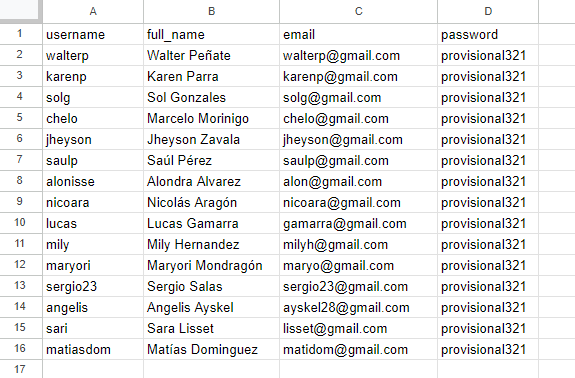
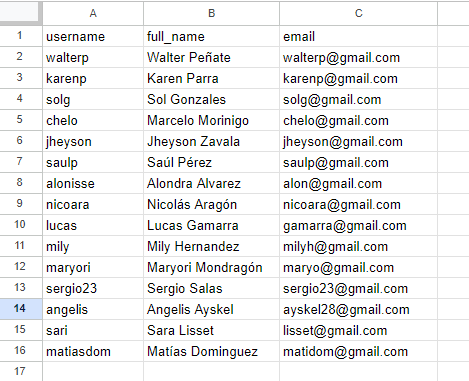
feat: add users created in block notification

diff --git a/business/usuarios/block.php b/business/usuarios/block.php
@@ -37,8 +37,10 @@ verifyRoles(['admin']);
             <form class="custom-form" action="./actions/create_users.php" method="POST" enctype="multipart/form-data">
                 <div class="data-section">
                     <p>
-                        Para crear usuarios en bloque, necesitas completar un archivo CSV con las columnas: <strong>username, full_name, email y password.</strong>
-                        Puedes crear las tablas en cualquier Excel o SpreadSheet y luego descargar como CSV.
+                        Para crear usuarios en bloque, necesitas completar un archivo CSV con las columnas: <strong>username, full_name, y email.</strong>
+                        La contraseña se establecerá de manera aleatoria automaticamente.
+                    </p>
+                    <p>Puedes crear las tablas en cualquier Excel o SpreadSheet y luego descargar como CSV.
                         <a class="change-password" href="<?php echo BASE_URL ?>/assets/img/csv_example.png" target="_blank">Ver ejemplo</a>
                     </p>
 
@@ -52,12 +54,12 @@ verifyRoles(['admin']);
 
                 <div class="manage-section">
                     <div class="input-wrapper select-input">
-                    <p>
-                        Por razones de seguridad, todos los usuarios creados en bloque se crean con rol <strong>Analista de Empresa</strong>.
-                    </p>
+                        <p>
+                            Por razones de seguridad, todos los usuarios creados en bloque se crean con rol <strong>Analista de Empresa</strong>.
+                        </p>
 
-                    <input id="submit-btn" class="btn btn-primary" type="submit" value="Crear en bloque">
-                </div>
+                        <input id="submit-btn" class="btn btn-primary" type="submit" value="Crear en bloque">
+                    </div>
             </form>
             <?php unset($_SESSION['form_data']); ?>
         </section>

diff --git a/admin/usuarios/block.php b/admin/usuarios/block.php
@@ -48,8 +48,10 @@ $stmt->close();
             <form class="custom-form" action="./actions/create_users.php" method="POST" enctype="multipart/form-data">
                 <div class="data-section">
                     <p>
-                        Para crear usuarios en bloque, necesitas completar un archivo CSV con las columnas: <strong>username, full_name, email y password.</strong>
-                        Puedes crear las tablas en cualquier Excel o SpreadSheet y luego descargar como CSV.
+                        Para crear usuarios en bloque, necesitas completar un archivo CSV con las columnas: <strong>username, full_name, y email.</strong>
+                        La contraseña se establecerá de manera aleatoria automaticamente.
+                    </p>
+                    <p>Puedes crear las tablas en cualquier Excel o SpreadSheet y luego descargar como CSV.
                         <a class="change-password" href="<?php echo BASE_URL ?>/assets/img/csv_example.png" target="_blank">Ver ejemplo</a>
                     </p>
 

diff --git a/admin/usuarios/actions/create_users.php b/admin/usuarios/actions/create_users.php
@@ -3,6 +3,8 @@
 require '../../../config/config.php';
 require '../../../helpers/forms.php';
 require '../../../helpers/auth.php';
+require '../../../helpers/users.php';
+require '../../../helpers/notifications.php';
 
 // iniciar sesión y verificar autorización
 session_start();
@@ -40,7 +42,10 @@ if (isset($_FILES['csv_file'])) {
                 $username = $data[0];
                 $full_name = $data[1];
                 $email = $data[2];
-                $password = password_hash($data[3], PASSWORD_DEFAULT); 
+                $random = generate_reset_code();
+                $password = password_hash($random, PASSWORD_DEFAULT); 
+
+                user_created_notification($random, $email, $full_name, $username);
 
                 // Insertar usuario en la base de datos
                 $stmt = $mydb->prepare("INSERT INTO users (username, full_name, email, password, role, business_id, is_active) VALUES (?, ?, ?, ?, ?, ?, ?)");

diff --git a/business/usuarios/actions/create_users.php b/business/usuarios/actions/create_users.php
@@ -3,6 +3,8 @@
 require '../../../config/config.php';
 require '../../../helpers/forms.php';
 require '../../../helpers/auth.php';
+require '../../../helpers/users.php';
+require '../../../helpers/notifications.php';
 
 // iniciar sesión y verificar autorización
 session_start();
@@ -40,7 +42,10 @@ if (isset($_FILES['csv_file'])) {
                 $username = $data[0];
                 $full_name = $data[1];
                 $email = $data[2];
-                $password = password_hash($data[3], PASSWORD_DEFAULT); 
+                $random = generate_reset_code();
+                $password = password_hash($random, PASSWORD_DEFAULT); 
+
+                user_created_notification($random, $email, $full_name, $username);
 
                 // Insertar usuario en la base de datos
                 $stmt = $mydb->prepare("INSERT INTO users (username, full_name, email, password, role, business_id, is_active) VALUES (?, ?, ?, ?, ?, ?, ?)");
